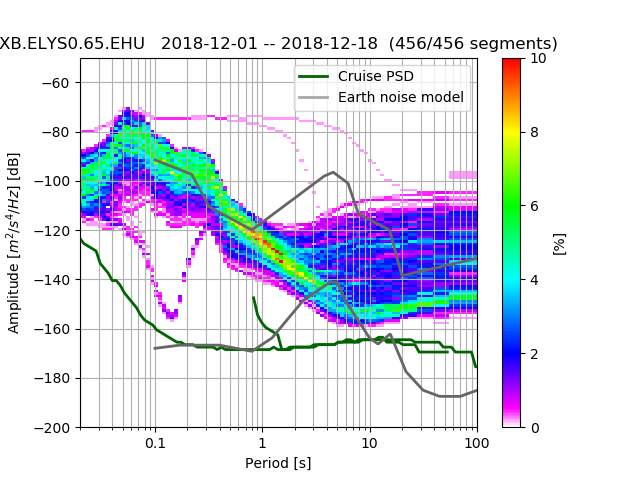
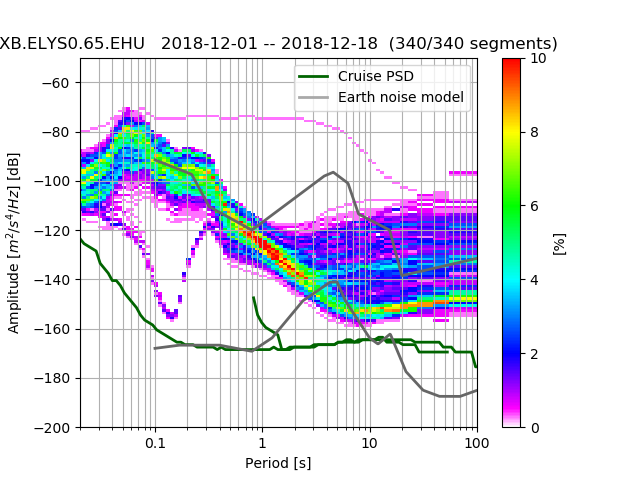
updated codes to use consistent on-deck data

diff --git a/make_paper_ppsd_fig.py b/make_paper_ppsd_fig.py
@@ -12,8 +12,10 @@ import numpy as np
 # datafile = "SP_EH_12-1_12-13.mseed"
 # datafile = "SP_SHU_MH_12-1_12-19.mseed"
 # metadata = "metadata.xml"
-ondeckdatafile = "datafiles/combined.SP.1201-1220.merged.mseed"
-ondeckmetadata = "datafiles/ELYS0_dl12-26.xml"
+# ondeckdatafile = "datafiles/combined.SP.1201-1220.merged.mseed"
+# ondeckmetadata = "datafiles/ELYS0_dl12-26.xml"
+ondeckdatafile = "datafiles/ELYS0.allseispress.dl0204.mseed"
+ondeckmetadata = "datafiles/ELYS0.dl0129.response.xml"
 cMHdata = "datafiles/CRUI3.SP.mseed"
 cMHmeta = "datafiles/CRUI3.xml"
 cEHdata = "datafiles/CRUI1-2.mseed"
@@ -149,7 +151,8 @@ plt.xlim((0.02, 100))
 plt.xscale('log')
 plt.xlabel('Period (s)')
 plt.ylim((-200, -50))
-plt.ylabel(r'Amplitude (m$^2$/s$^4$/Hz [dB])')
+plt.ylabel(r'Acceleration power (m$^2$/s$^4$/Hz [dB])')
+plt.grid(which='both')
 plt.legend()
 # plt.show()
 plt.savefig(plotfile)

diff --git a/make_ppsd_panelA_fig.py b/make_ppsd_panelA_fig.py
@@ -10,8 +10,10 @@ import matplotlib.pyplot as plt
 # datafile = "SP_EH_12-1_12-13.mseed"
 # datafile = "SP_SHU_MH_12-1_12-19.mseed"
 # metadata = "metadata.xml"
-datafile = "datafiles/combined.SP.1201-1220.merged.mseed"
-metadata = "datafiles/ELYS0_dl12-26.xml"
+# datafile = "datafiles/combined.SP.1201-1220.merged.mseed"
+# metadata = "datafiles/ELYS0_dl12-26.xml"
+datafile = "datafiles/ELYS0.allseispress.dl0204.mseed"
+metadata = "datafiles/ELYS0.dl0129.response.xml"
 cMHdata = "datafiles/CRUI3.SP.mseed"
 cMHmeta = "datafiles/CRUI3.xml"
 cEHdata = "datafiles/CRUI1-2.mseed"
